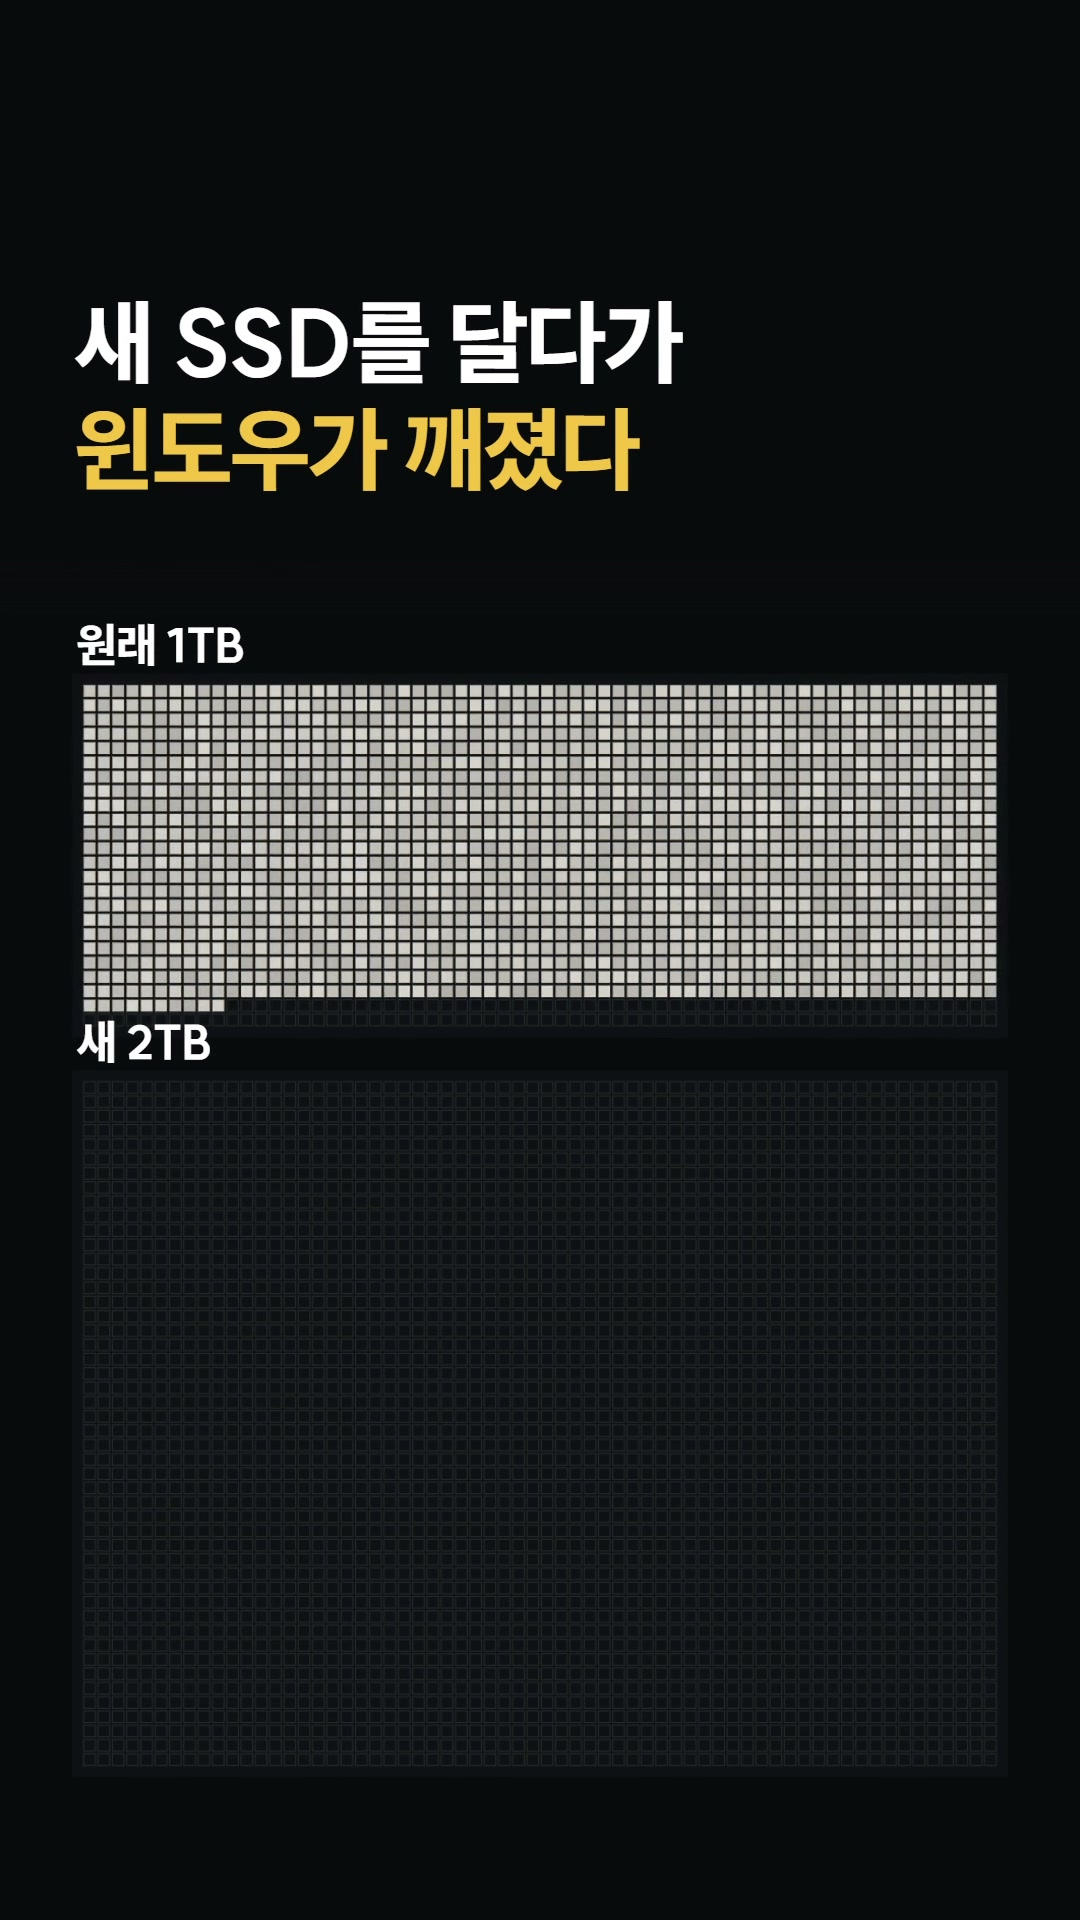
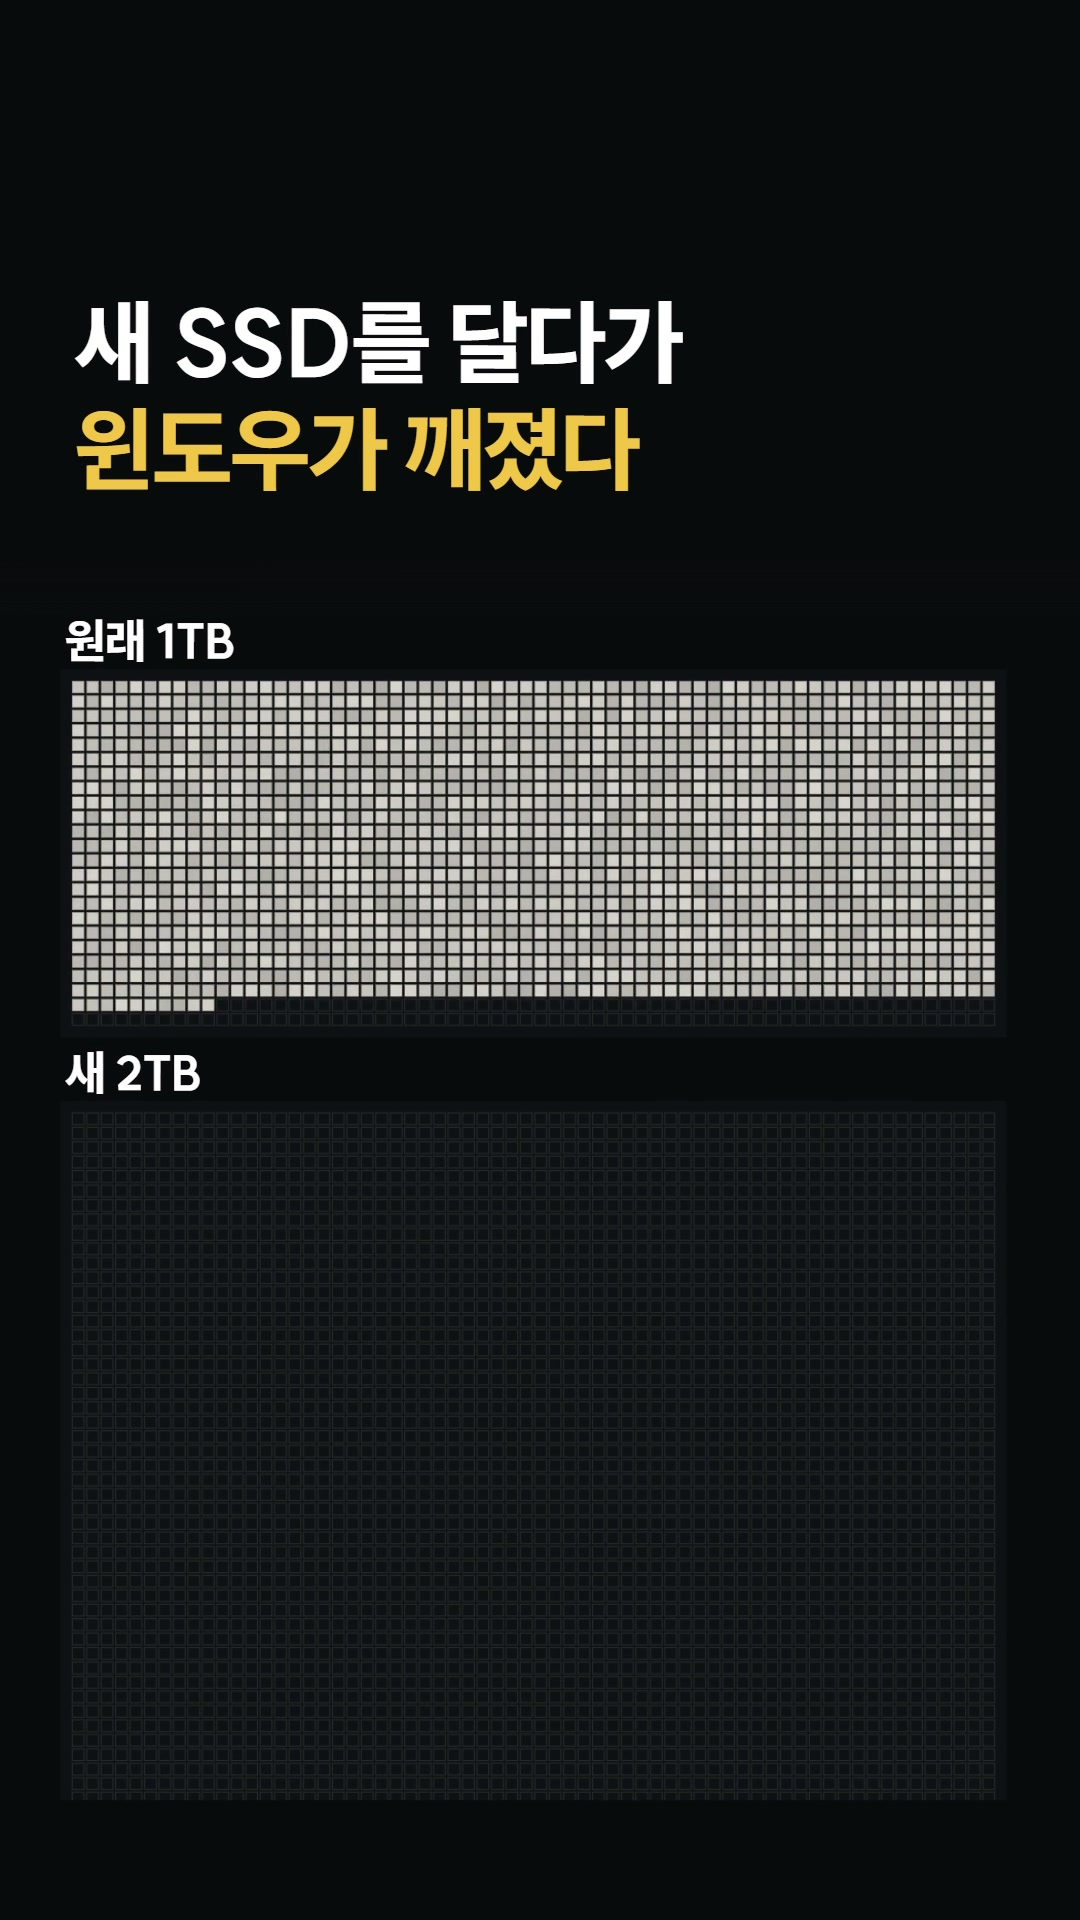
wip(yuhobuilds Y37 · 11-13 칸 · 11-12 19시): 카본 미학 맹검 r5 — 그대로 0 · 고쳐서 냄 3 · 기각 5(멈춘 구간 · 조판 · 백업이 이동처럼 읽힘 · 내려앉기 얼룩) → r7에서 짚은 대로 고침, 올리기 전 검사 고칠 것 0(칸 수는 오마주 다르게), 음악층 다시 잼. r7 맹검 줄 서는 중
관련 시험 건너뜀: 깨진 셋(예약큐 P2-9 ⓐⓑ · 올리기전검사 ⑩ 돌림 판)은 LAB 돌림 꾸밈 자료 LAB_원본의 결과 — 이 커밋은 yuhobuilds 편 폴더뿐이라 무관(master CI 빨강 11-10부터)

Changed region(s): [[0.0611, 0.3125, 0.9472, 0.5938]]

diff --git a/docs/마케팅/yuhobuilds_윈도우깨짐_20261112/remotion/src/y37/Film.tsx b/docs/마케팅/yuhobuilds_윈도우깨짐_20261112/remotion/src/y37/Film.tsx
@@ -74,7 +74,7 @@ const Record: React.FC<{ from: number; to: number }> = ({ from, to }) => {
   if (f < from || f >= to) return null;
   const out = 1 - prog(f, to - 5, 5);
   const row = (i: number, a: React.ReactNode, b: React.ReactNode) => {
-    const p = prog(f, from + i * 6, 10);
+    const p = prog(f, from + i * 16, 8);
     return (
       <div style={{ display: 'flex', justifyContent: 'space-between', alignItems: 'baseline', padding: '10px 0', borderTop: '1px solid rgba(255,255,255,0.28)', opacity: p * out, transform: `translateY(${(1 - p) * 20}px)` }}>
         <span style={{ fontWeight: 700, fontSize: 52, color: 'rgba(255,255,255,0.8)' }}>{a}</span>
@@ -85,8 +85,8 @@ const Record: React.FC<{ from: number; to: number }> = ({ from, to }) => {
   return (
     <div style={{ position: 'absolute', left: 74, right: 160, top: 300, fontFamily: KO }}>
       <div style={{ fontWeight: 700, fontSize: 42, color: 'rgba(255,255,255,0.66)', marginBottom: 8, opacity: out }}>11월 7일 복원 기록</div>
-      {row(0, '되살린 문서', '1,796,647개')}
-      {row(1, '잃은 파일', <B>0개</B>)}
+      {row(0, '되살린 문서', `${Math.round(1796647 * prog(f, from + 3, 20)).toLocaleString('en-US')}개`)}
+      {row(1, '잃은 파일', <span style={{ display: 'inline-block', transform: `scale(${1 + 0.25 * Math.max(0, 1 - Math.abs(f - from - 30) / 6)})`, opacity: prog(f, from + 26, 4) }}><B>0개</B></span>)}
     </div>
   );
 };
@@ -99,19 +99,19 @@ const SaveCard: React.FC<{ from: number }> = ({ from }) => {
     const p = prog(f, from + 4 + i * 5, 10);
     return (
       <div style={{ display: 'flex', gap: 22, alignItems: 'baseline', marginTop: 14, opacity: p, transform: `translateY(${(1 - p) * 20}px)` }}>
-        <span style={{ fontWeight: 900, fontSize: 50, color: '#FFFFFF', width: 30, flex: 'none' }}>{n}</span>
-        <span style={{ fontWeight: 800, fontSize: 50, lineHeight: 1.2, letterSpacing: -1.4, color: '#FFFFFF' }}>{a}</span>
+        <span style={{ fontWeight: 900, fontSize: 60, color: '#FFFFFF', width: 40, flex: 'none' }}>{n}</span>
+        <span style={{ fontWeight: 800, fontSize: 52, lineHeight: 1.2, letterSpacing: -1.4, color: '#FFFFFF' }}>{a}</span>
       </div>
     );
   };
   const p0 = prog(f, from, 10);
   return (
     <div style={{ position: 'absolute', left: 74, right: 160, top: 286, fontFamily: KO }}>
-      <div style={{ fontWeight: 700, fontSize: 40, color: 'rgba(255,255,255,0.7)', letterSpacing: -0.8, opacity: p0 }}>드라이브 정리할 때 — 저장해 두세요</div>
+      <div style={{ fontWeight: 800, fontSize: 48, color: '#FFFFFF', letterSpacing: -1.2, opacity: p0, marginBottom: 6 }}>드라이브 정리할 때, 저장해 두세요</div>
       {line(0, '1', '옮긴 뒤, 원래 자리엔 바로가기')}
       {line(1, '2', <>지울 건 「두 곳에 똑같은 파일」만</>)}
       {line(2, '3', '다른 건 남기고, 클릭은 내가')}
-      <div style={{ marginTop: 18, fontWeight: 600, fontSize: 36, color: 'rgba(255,255,255,0.66)', letterSpacing: -0.6, opacity: prog(f, from + 24, 10) }}>그대로 붙여 넣는 요청문은 아래 글에</div>
+      <div style={{ marginTop: 18, fontWeight: 700, fontSize: 40, color: 'rgba(255,255,255,0.85)', letterSpacing: -0.6, opacity: prog(f, from + 24, 10) }}>그대로 붙여 넣는 요청문은 아래 글에</div>
     </div>
   );
 };
@@ -125,11 +125,11 @@ const SHOTS: [number, Cam][] = [
 const CAMS: Record<Cam, { s: number; tx: number; ty: number }> = {
   full: { s: 1, tx: 0, ty: 0 },
   c: { s: 1.5, tx: 540 - 1.5 * 540, ty: 1030 - 1.5 * 860 },
-  dTop: { s: 1.5, tx: 540 - 1.5 * 540, ty: 1060 - 1.5 * 1230 },
-  dMid: { s: 1.45, tx: 540 - 1.45 * 540, ty: 1060 - 1.45 * 1290 },
-  dKeep: { s: 1.6, tx: 540 - 1.6 * 540, ty: 1060 - 1.6 * 1330 },
-  mid: { s: 1.22, tx: 540 - 1.22 * 540, ty: 1000 - 1.22 * 1050 },
-  end: { s: 1.0, tx: 0, ty: 70 },
+  dTop: { s: 1.5, tx: 540 - 1.5 * 540, ty: 1080 - 1.5 * 1260 },
+  dMid: { s: 1.45, tx: 540 - 1.45 * 540, ty: 1080 - 1.45 * 1320 },
+  dKeep: { s: 1.6, tx: 540 - 1.6 * 540, ty: 1080 - 1.6 * 1360 },
+  mid: { s: 1.22, tx: 540 - 1.22 * 540, ty: 1010 - 1.22 * 1070 },
+  end: { s: 1.0, tx: 0, ty: 150 },
 };
 const shotAt = (t: number) => {
   let i = 0;
@@ -148,7 +148,8 @@ export const Film: React.FC<{ bgm?: boolean }> = ({ bgm = true }) => {
   const endP = shot.cam === 'end' ? prog(f, CARD, 18) : 0;
   const base = shot.cam === 'end' ? CAMS.full : CAMS[shot.cam];
   const cam = shot.cam === 'end' ? { s: base.s + (CAMS.end.s - base.s) * endP, tx: base.tx + (CAMS.end.tx - base.tx) * endP, ty: base.ty + (CAMS.end.ty - base.ty) * endP } : base;
-  const drift = 1 + 0.04 * inShot; // 컷마다 아주 천천히 다가감
+  const drift = 1 + 0.07 * inShot; // 컷마다 천천히 다가감
+  const pan = (shot.start * 7) % 2 < 1 ? -18 * inShot : 18 * inShot;
   const zoomed = shot.cam !== 'full' && shot.cam !== 'end';
   const push = interpolate(f, [0, TOTAL], [1, 1.05], clamp);
   // 원본 박자 자리마다 판이 한 번 살짝 당겨진다(1.035배 → 제자리)
@@ -169,7 +170,7 @@ export const Film: React.FC<{ bgm?: boolean }> = ({ bgm = true }) => {
   const scanP = interpolate(f, [BEAT.scan[0], BEAT.scan[1]], [0, 1], clamp);
   return (
     <AbsoluteFill style={{ background: '#0A0B0E' }}>
-      <AbsoluteFill style={{ transform: `scale(${push * drift * (1 + 0.035 * kick * kick)})`, transformOrigin: '50% 55%' }}>
+      <AbsoluteFill style={{ transform: `translateX(${pan}px) scale(${push * drift * (1 + 0.035 * kick * kick)})`, transformOrigin: '50% 55%' }}>
         <AbsoluteFill style={{ opacity: 1 - 0.86 * cardDim, transform: `translate(${cam.tx}px, ${cam.ty}px) scale(${cam.s})`, transformOrigin: '0 0' }}>
           <Drives beat={BEAT} story={STORY} showKept />
           <DriveLabels settle={settle} free={prog(f, F(22.1), 8)} o={zoomed ? 0 : 1} />
@@ -195,18 +196,18 @@ export const Film: React.FC<{ bgm?: boolean }> = ({ bgm = true }) => {
         <div style={{ position: 'absolute', left: 74, top: 290, fontFamily: KO }}>
           <div style={{ fontWeight: 800, fontSize: 52, letterSpacing: -1.5, color: '#FFFFFF' }}>이름 · 크기 · 내용이 다 같은 파일</div>
           <div style={{ fontWeight: 900, fontSize: 150, lineHeight: 1, letterSpacing: -6, color: BUTTER, fontVariantNumeric: 'tabular-nums' }}>
-            {fmt(Math.round(REAL.total * scanP * 10) / 10)}
+            <span style={{ display: 'inline-block', width: 420, textAlign: 'right' }}>{fmt(Math.round(REAL.total * scanP * 10) / 10)}</span>
             <span style={{ fontSize: 70, letterSpacing: -1, marginLeft: 8 }}>GB</span>
           </div>
         </div>
       ) : null}
-      <Head from={F(31.4)} to={F(33.9)} lines={['내용이 다른 79.5GB는', '남김']} />
+      <Head from={F(31.4)} to={F(33.9)} lines={['내용이 다른 79.5GB는', '그대로 남김']} />
       <Head from={F(33.9)} to={F(36.75)} lines={['지우는 클릭은', <B key="m">내가</B>]} />
       {f >= F(36.75) && f < CARD ? (
         <div style={{ position: 'absolute', left: 74, top: 290, fontFamily: KO }}>
           <div style={{ fontWeight: 800, fontSize: 60, letterSpacing: -1.5, color: '#FFFFFF', opacity: prog(f, F(36.75), 6) }}>비운 자리</div>
           <div style={{ fontWeight: 900, fontSize: 150, lineHeight: 1, letterSpacing: -6, color: BUTTER, fontVariantNumeric: 'tabular-nums' }}>
-            {fmt(Math.round(REAL.total * settle * 10) / 10)}
+            <span style={{ display: 'inline-block', width: 420, textAlign: 'right' }}>{fmt(Math.round(REAL.total * settle * 10) / 10)}</span>
             <span style={{ fontSize: 70, letterSpacing: -1, marginLeft: 8 }}>GB</span>
           </div>
         </div>

diff --git a/docs/마케팅/yuhobuilds_윈도우깨짐_20261112/remotion/src/y37/Drives.tsx b/docs/마케팅/yuhobuilds_윈도우깨짐_20261112/remotion/src/y37/Drives.tsx
@@ -9,7 +9,7 @@ export const PANEL_X = 90;
 export const PANEL_W = 900;
 export const PITCH = PANEL_W / COLS;
 export const C_TOP = 690;
-export const D_TOP = 1080;
+export const D_TOP = 1110;
 
 export type DriveBeat = {
   scan: readonly [number, number]; // 짝이 켜지는 구간
@@ -140,7 +140,7 @@ export const Drives: React.FC<{ beat: DriveBeat; story?: DriveStory; dim?: numbe
         if (r.kind === 'del' && lit > 0) col = [col[0] + (245 - col[0]) * lit, col[1] + (196 - col[1]) * lit, col[2] + (69 - col[2]) * lit];
         // 「남김」 박자: 지울 칸은 가라앉고 남길 옛 판만 하얗게 선다
         const keepOn = showKept && f >= beat.keep && (beat.keepOff === undefined || f < beat.keepOff + 8) ? clamp01((f - beat.keep) / 8) * (beat.keepOff === undefined ? 1 : clamp01((beat.keepOff + 8 - f) / 8)) : 0;
-        if (keepOn > 0 && r.kind === 'del') col = [col[0] * (1 - 0.55 * keepOn), col[1] * (1 - 0.55 * keepOn), col[2] * (1 - 0.55 * keepOn)];
+        if (keepOn > 0 && r.kind === 'del') col = [col[0] + (62 - col[0]) * keepOn * 0.85, col[1] + (63 - col[1]) * keepOn * 0.85, col[2] + (66 - col[2]) * keepOn * 0.85];
         if (keepOn > 0 && r.kind === 'kept') col = [col[0] + (255 - col[0]) * keepOn, col[1] + (255 - col[1]) * keepOn, col[2] + (255 - col[2]) * keepOn];
         if (r.kind === 'twin' && r.rank >= 0 && scanP > r.rank / N) {
           // 짝이 켜지는 순간 남는 쪽은 하얗게 한 번 번쩍였다 제 색으로 — 「같은 것이 저기에도 있다」
@@ -161,7 +161,8 @@ export const Drives: React.FC<{ beat: DriveBeat; story?: DriveStory; dim?: numbe
                 alpha = hash(i * 13 + f) > 0.35 + g / 30 ? 1 : 0.2;
                 col = hash(band + f * 3) > 0.7 ? [255, 255, 255] : col;
               } else {
-                alpha = 0.13;
+                const dead = hash(i * 29 + 7) < 0.14;
+                col = dead ? [24, 25, 28] : [col[0] * 0.42, col[1] * 0.42, col[2] * 0.44];
               }
             } else if (f >= back && f < back + 8) {
               const q = (f - back) / 8;
@@ -209,10 +210,18 @@ export const Drives: React.FC<{ beat: DriveBeat; story?: DriveStory; dim?: numbe
           const back = clamp01((f - beat.del - (r.rank / N) * beat.delLen * 0.55) / 10);
           col = [col[0] + (217 * shade - col[0]) * back, col[1] + (213 * shade - col[1]) * back, col[2] + (205 * shade - col[2]) * back];
         }
-        if (settleP > 0 && newPos[i] >= 0) {
+        if (settleP > 0 && newPos[i] >= 0 && newPos[i] !== i) {
           const [nx, ny] = pos(top, newPos[i]);
-          px = ox + (nx - ox) * settleP;
-          py = oy + (ny - oy) * settleP;
+          const rows = top === C_TOP ? C_ROWS : D_ROWS;
+          const tIn = clamp01(settleP * 1.7 - (Math.floor(newPos[i] / COLS) / rows) * 0.7);
+          const fill = `rgb(${col[0] | 0},${col[1] | 0},${col[2] | 0})`;
+          x.fillStyle = fill;
+          x.globalAlpha = alpha * (1 - tIn) * (1 - dim * 0.7);
+          x.fillRect(px + 1.3, py + 1.3, size, size);
+          x.globalAlpha = alpha * tIn * (1 - dim * 0.7);
+          x.fillRect(nx + 1.3, ny + 1.3, size, size);
+          x.globalAlpha = 1;
+          return;
         }
         x.globalAlpha = alpha * (1 - dim * 0.7);
         x.fillStyle = `rgb(${col[0] | 0},${col[1] | 0},${col[2] | 0})`;
@@ -233,29 +242,36 @@ export const Drives: React.FC<{ beat: DriveBeat; story?: DriveStory; dim?: numbe
       const tag = (text: string, px: number, py: number, a: number) => {
         if (a <= 0) return;
         x.globalAlpha = a * (1 - dim * 0.7);
-        x.font = "900 50px 'SUIT'";
-        x.lineJoin = 'round';
-        x.lineWidth = 10;
-        x.strokeStyle = 'rgba(255,255,255,0.95)';
-        x.strokeText(text, px, py);
-        x.fillStyle = '#0A0B0E';
+        x.font = "800 40px 'SUIT'";
+        const w = x.measureText(text).width;
+        const bx0 = px - 20;
+        const by0 = py - 44;
+        const bw = w + 40;
+        const bh = 60;
+        x.fillStyle = 'rgba(10,11,14,0.94)';
+        x.beginPath();
+        x.roundRect(bx0, by0, bw, bh, 30);
+        x.fill();
+        x.fillStyle = '#FFFFFF';
         x.fillText(text, px, py);
         x.globalAlpha = 1;
       };
       // 바로가기 선: 1TB 옛 자리 → 2TB 옮긴 자리
       const la = span(f, story.links);
       if (la > 0) {
-        x.globalAlpha = la * 0.75;
-        x.strokeStyle = '#FFFFFF';
-        x.lineWidth = 2.5;
-        x.setLineDash([10, 8]);
-        for (const k of RUNS) {
-          const [sx, sy] = pos(C_TOP, C_DEL_IDX[k]);
-          const [tx, ty] = pos(D_TOP, k);
-          x.beginPath();
-          x.moveTo(sx + PITCH / 2, sy + PITCH / 2);
-          x.lineTo(tx + PITCH / 2, ty + PITCH / 2);
-          x.stroke();
+        x.globalAlpha = la * 0.9;
+        for (const [w, c] of [[8, '#0A0B0E'], [3, '#FFFFFF']] as const) {
+          x.strokeStyle = c;
+          x.lineWidth = w;
+          x.setLineDash(c === '#FFFFFF' ? [12, 9] : []);
+          for (const k of RUNS) {
+            const [sx, sy] = pos(C_TOP, C_DEL_IDX[k]);
+            const [tx, ty] = pos(D_TOP, k);
+            x.beginPath();
+            x.moveTo(sx + PITCH / 2, sy + PITCH / 2);
+            x.lineTo(tx + PITCH / 2, ty + PITCH / 2);
+            x.stroke();
+          }
         }
         x.setLineDash([]);
         x.globalAlpha = 1;
@@ -266,10 +282,6 @@ export const Drives: React.FC<{ beat: DriveBeat; story?: DriveStory; dim?: numbe
       const [ox, oy] = pos(C_TOP, C_DEL_IDX[RUNS[0]]);
       tag('바로가기', Math.min(ox + 12, PANEL_X + PANEL_W - 230), oy + 46, la);
       const [qx, qy] = pos(C_TOP, C_DEL_IDX[RUNS[Math.min(2, RUNS.length - 1)]]);
-      if (showKept) {
-        const [kx, ky] = pos(D_TOP, D_KEPT_IDX[Math.floor(D_KEPT_IDX.length * 0.45)]);
-        tag('남김', Math.min(kx + 12, PANEL_X + PANEL_W - 120), ky - 12, span(f, [beat.keep, beat.keepOff ?? beat.keep + 60]));
-      }
       tag('옮기기 전 사본', Math.min(qx + 12, PANEL_X + PANEL_W - 340), qy + 46, span(f, story.oldCopy));
     }
   }, [f, beat, story, dim, roles, N, showKept]);

diff --git a/docs/마케팅/yuhobuilds_윈도우깨짐_20261112/remotion/src/y37/Hero.tsx b/docs/마케팅/yuhobuilds_윈도우깨짐_20261112/remotion/src/y37/Hero.tsx
@@ -27,7 +27,7 @@ export const DriveLabels: React.FC<{ settle: number; o?: number; free?: number }
     <div style={{ position: 'absolute', left: PANEL_X - 6, width: 920 - PANEL_X + 6, top: top - 66, display: 'flex', justifyContent: 'space-between', alignItems: 'baseline', fontFamily: KO, opacity: o }}>
       <span style={{ fontWeight: 800, fontSize: 46, color: '#FFFFFF', letterSpacing: -1 }}>{name}</span>
       <span style={{ fontWeight: 600, fontSize: 38, color: 'rgba(255,255,255,0.72)', letterSpacing: -0.5, fontVariantNumeric: 'tabular-nums', opacity: free }}>
-        여유 <span style={{ fontWeight: 800, color: '#FFFFFF' }}>{fmt(a + (b - a) * settle)}GB</span>
+        여유 <span style={{ fontWeight: 800, color: '#FFFFFF', display: 'inline-block', width: 150, textAlign: 'right' }}>{fmt(a + (b - a) * settle)}</span>GB
       </span>
     </div>
   );

diff --git a/docs/마케팅/yuhobuilds_윈도우깨짐_20261112/기획.md b/docs/마케팅/yuhobuilds_윈도우깨짐_20261112/기획.md
@@ -123,3 +123,24 @@
 `게시/요청문.txt`를 맥락 없는 하위 에이전트(코딩 AI 꼴, sonnet)에게 그대로 붙여 넣어 스크래치패드 안 가짜 드라이브 두 폴더(영상 파일 9개 · 앞서 만든 부분 백업 하나)에서 돌렸다(11-12). 복사 → 파일 수 · 용량 대조(9개 · 390,007바이트) → 원래 폴더 「.옮김전」으로 남김 → 원래 경로에 폴더 링크 → 예전 경로로 열림 확인 → 이름 · 크기 · 해시로 맞대 지울 목록 9 · 남김 0 표 → 지우는 한 줄은 실행 없이 따로. 비교 밖 부분 백업은 건드리지 않고 「크기가 달라 온전한 백업이 아님」을 따로 알렸다. 지운 것 0.
 
 **synk.im/prompts:** `drive-move-same-files` 항목을 `프롬프트.json` 맨 앞에 더함(시험 12/12 · 빌드 · 공개 전 점검 통과). 카본 검수 `yhat-prompts-y37` 지적 2 — A2(빈칸 예시 경로에서 역슬래시가 빠짐) 반영, A1(앞 편 항목 `ai-score-vs-views`의 여러 줄 빈칸이 한 줄 입력칸 — `page.js` 기존 화면 · P1)은 이번 변경 밖이라 후속. 공개 도구가 앞 검수의 「Fable 5.2 최종 검수 미완료 · A1 P1 미해결」로 다시 검수 묶음을 막아 **공개 못 함** — 장부 머리말대로 링크 없이 게시글에 요청문 전문을 싣는다.
+
+## 카본 미학 맹검 r5(11-12 18:26~18:43 · 장면 여덟 · 띠 그림) — 그대로 냄 0 · 고쳐서 냄 3 · 기각 5
+
+기록 `게시/미학맹검.json`, 답 원문 `<공용 작업본>/.tmp/미학맹검/yuhobuilds윈도우깨짐2/`(git 밖). 앞서 r4로 줄 선 것은 r5로 짜임이 다 바뀌어 내려놓았고, r5 작업은 제 실수로 두 번 떴다가 둘 다 제가 건 1시간 제한에 차례 직전 끝나 같은 번호표로 다시 걸었다(줄 맨 앞을 이어받음).
+
+| 장면 | 판정 · 점수 | 카본이 짚은 것(그림과 대조해 맞는 것) | r7에서 고친 것 |
+|---|---|---|---|
+| 01 첫 화면 1.2초 | 고쳐서 냄 5 | 2초 내내 정지 · 「깨졌다」에 한 방이 없음 · 2TB 이름표가 1TB 밑변에 붙음 | 컷 안 다가감 7% + 옆 18px, 판 사이 30px 넓힘 |
+| 02 백업 8.4초 | 기각 3 | 원래 1TB가 비어 보여 복사가 아니라 이동 · 삭제로 읽힘, 입자가 기본 코드 효과 같음, 「백업」 이름표가 격자에 묻힘 | 깨진 판은 칸이 남은 채 어둡게(군데군데 죽은 칸), 이름표는 검은 알약 |
+| 03 복원 기록 13.3초 | 고쳐서 냄 5 | 두 줄이 한꺼번에 툭 · 1.5초 넘게 정지 | 문서 수가 0 → 1,796,647로 세어 오르고 「0개」는 늦게 한 번 커짐 |
+| 04 바로가기 20.6초 | 기각 3 | 2초 정지 · 흰 격자 위 흰 점선이 묻힘 · 테두리 글 이름표가 어른거림 | 검은 테 아래 흰 점선, 알약 이름표, 컷 안 움직임 |
+| 05 짝 켜짐 28.4초 | 고쳐서 냄 6 | 자릿수가 늘 때 「GB」가 밀림 · 판 사이 좁음 | 세는 숫자 오른쪽 맞춤 고정 폭, 판 사이 넓힘 |
+| 06 남김 32.4초 | 기각 3 | 「남김」 이름표가 흰 칸을 가리고 위 글과 겹말 · 가라앉은 칸이 탁한 황토색 | 판 속 「남김」을 빼고 위 글을 「그대로 남김」으로, 지울 칸은 무채색 짙은 회색 |
+| 07 내려앉음 37.8초 | 기각 4 | 칸이 다른 칸 위를 겹쳐 지나가며 얼룩 · 숫자 자릿수로 「GB」 밀림 | 내려앉기를 옛 자리에서 사라지고 새 자리에 물결로 나타나게(겹쳐 지나가지 않음), 비워진 자리를 버터로 물들임 |
+| 08 끝 41.8초 | 기각 4 | 위 다섯 줄이 메모장처럼 위계 없음 · 끝에 사건이 없음 | 머리 48 굵게 · 번호 60 · 줄 52 · 꼬리 40, 판을 내려 겹침 없앰, 끝 판은 비운 자리가 버터로 남은 그림 |
+
+같이 걸린 뿌리는 「멈춘 1.5~2초」와 「그래픽 조판(이름표 · 숫자 폭 · 간격)」이었다. 화면 결(검정 바탕 · 칸 그림)은 강점 칸에서 「용량 비례가 첫눈에」 · 「같은 자리 칸이 함께 켜져 중복 규모를 단번에」로 받았다.
+
+## r7(최종본 · 11-12 18:50) — 올리기 전 검사
+
+정지 0% · 가장 긴 한 구성 3.75초 · 끝 화면 3.2초 · 음악 꺼짐 0 · 소리 빈자리 0 · ⑯ 끝 장면 Y30과 0.183(첫 0.113 — 끝이 달라 통과). 칸 수 원본 17 → 23은 오마주.json 「다르게」에 까닭을 적었다(판 하나를 접사 · 전체로 번갈아 보여야 한 구성 · 정지 관문을 넘는다). 남은 「확인할 것」: 컷 안 다가감 때문에 22초 여유 숫자 오른쪽 끝 938px · 2.5초 이름표 왼쪽 끝 58px, 접사 컷의 「옮긴 자료」 알약 아래 끝 1500px(안전선 1428 — 인스타 캡션 자리와 겹칠 수 있음). 카본 맹검 r7은 18:52에 다시 줄 섬.
